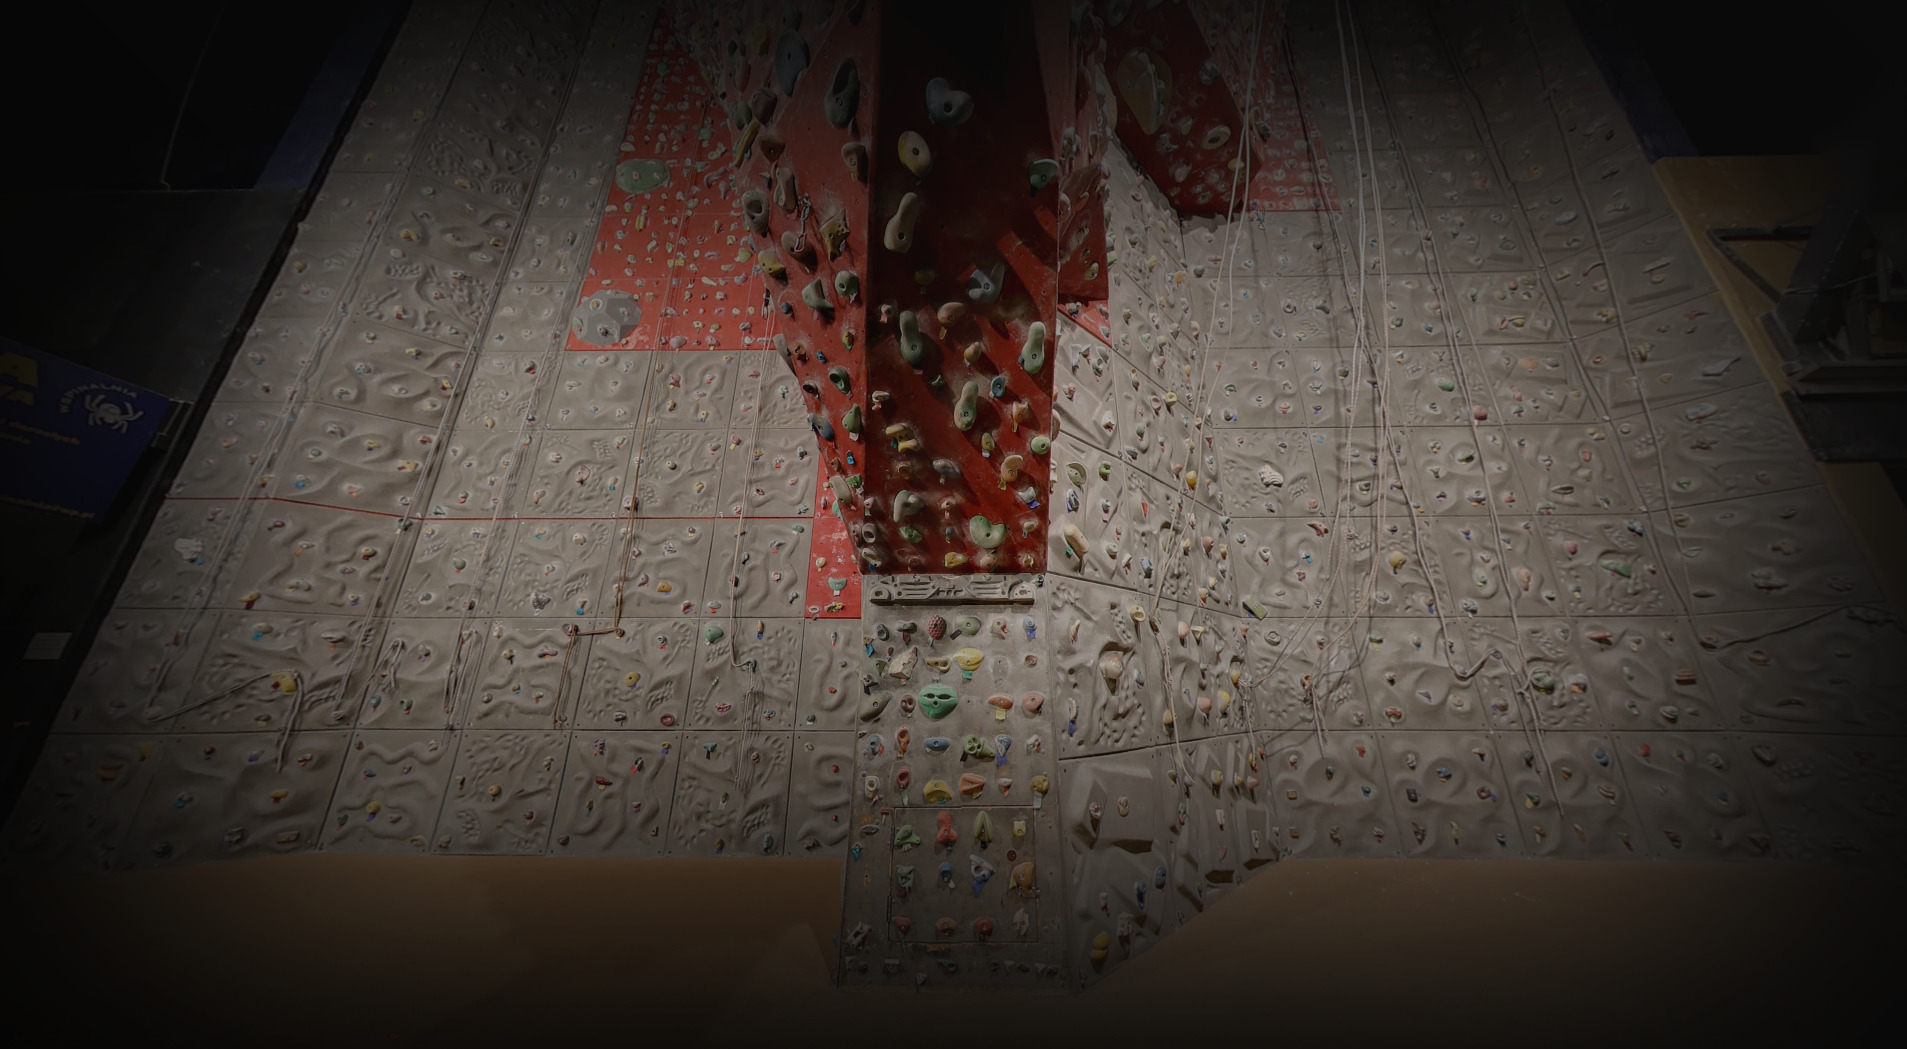
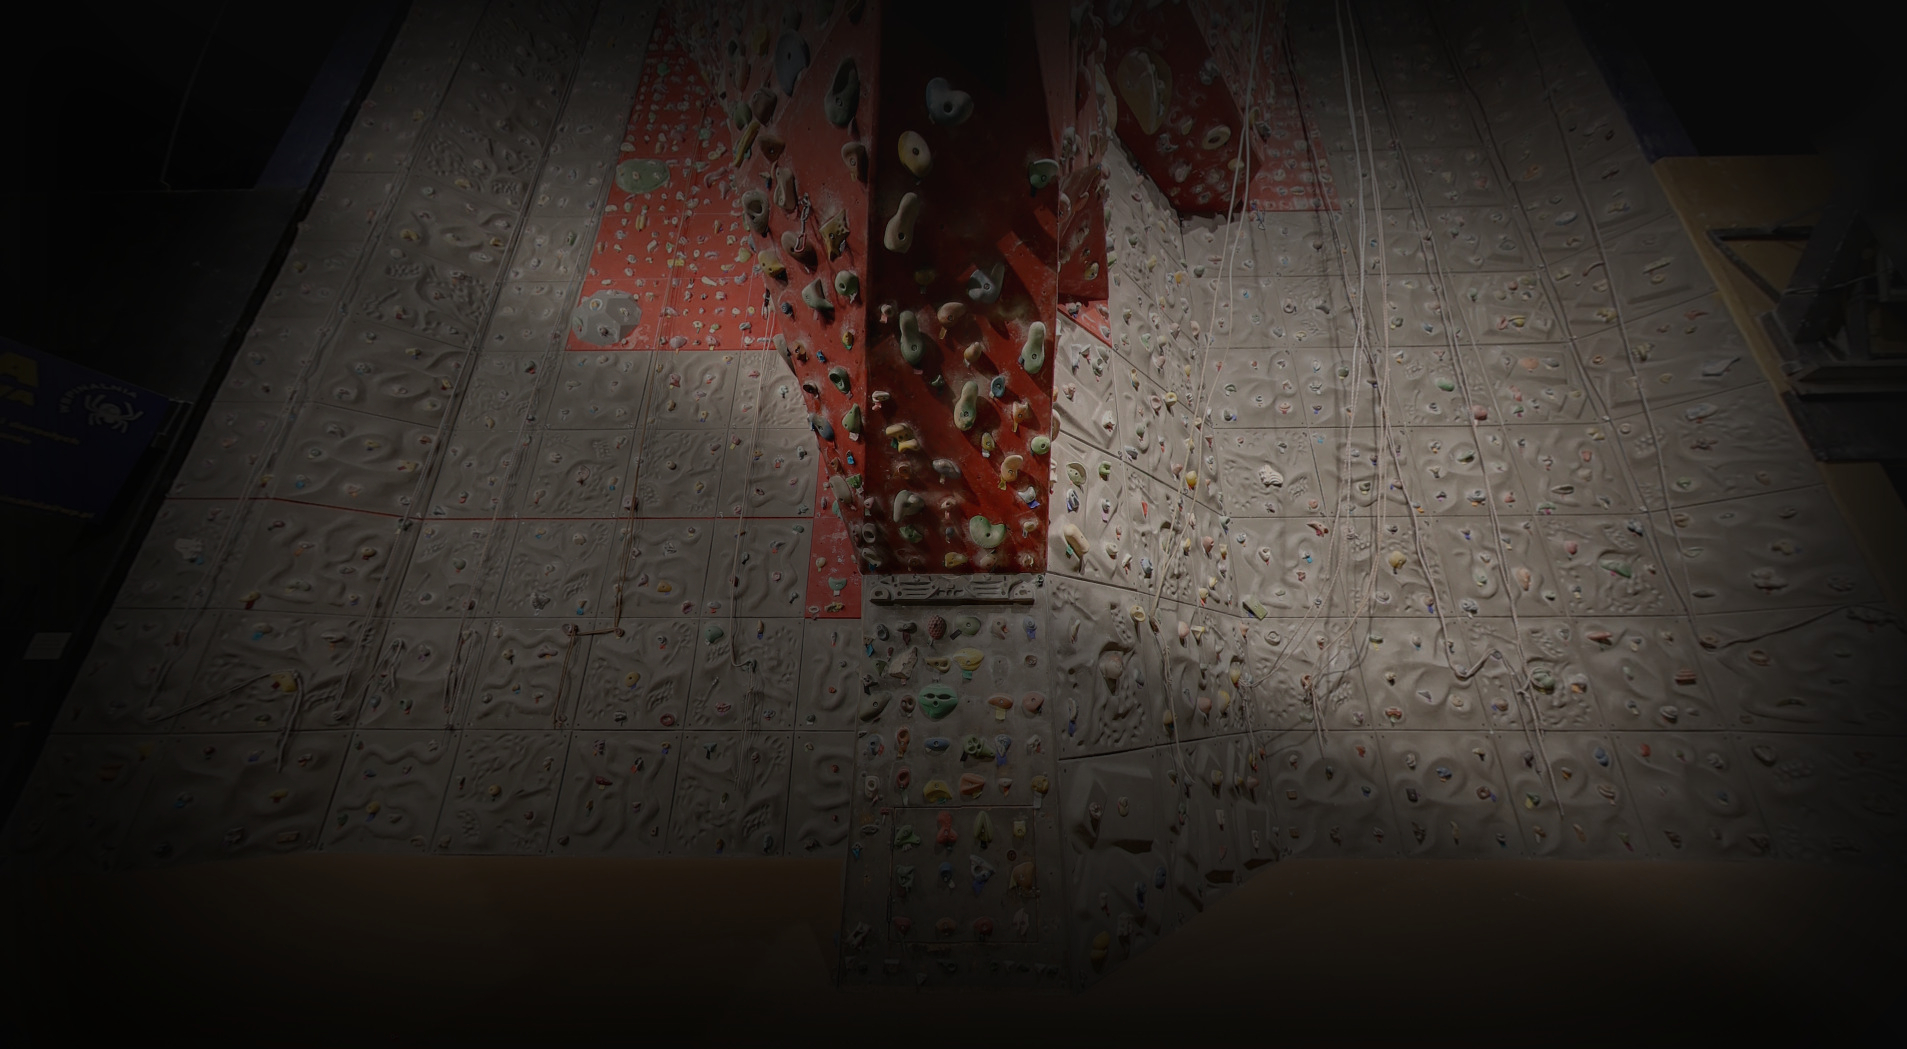
Subpage & resp

Changed region(s): [[0.0619, 0.2135, 0.8044, 0.8847]]

diff --git a/onas.html b/onas.html
@@ -13,7 +13,7 @@
     <script src="https://cdnjs.cloudflare.com/ajax/libs/popper.js/1.14.3/umd/popper.min.js" integrity="sha384-ZMP7rVo3mIykV+2+9J3UJ46jBk0WLaUAdn689aCwoqbBJiSnjAK/l8WvCWPIPm49" crossorigin="anonymous"></script>
   </head>
   <body>
-    <div id="bg1" class="d-flex flex-column">
+    <div id="bg1" class="d-flex flex-column" style="height:30%;">
       <div class="container">
         <div class="row py-4">
           <div class="col-xl-4 col-lg-4 col-md-5 col-sm-7 col-12 mx-auto mb-3 mb-xl-0">
@@ -29,10 +29,10 @@
           <div class="col-xl-8 col-md-12 col-sm-11 col-xs-12 mx-auto d-flex align-items-center">
             <ul class="nav nav-fill">
               <li class="nav-item">
-                <a class="nav-link active" href="#">Home</a>
+                <a class="nav-link" href="#">Home</a>
               </li>
               <li class="nav-item">
-                <a class="nav-link" href="#">O nas</a>
+                <a class="nav-link active" href="#">O nas</a>
               </li>
               <li class="nav-item">
                 <a class="nav-link" href="#">Cennik</a>
@@ -56,87 +56,22 @@
           </div>
         </div>
       </div>
-      <!--<div class="container flex-grow-1 d-flex align-items-center">
-        <div class="row">
-          <div class="col-12 pb-5">
-            <p class="s-20 c-white pb-4">CH Alfa</p>
-            <h2 class="c-white pb-5">Ściana<br>wspinaczkowa</h2>
-          </div>
-        </div>
-      </div>-->
     </div>
     <div class="container-fluid">
-      <div class="row">
-        <div class="col-xl-4 col-md-6 col-12 p-0 d-flex">
-          <div class="background" style="background-image: url('img/sciana.jpg');"></div>
-          <div class="card p-5">
-            <div class="card-body px-0 py-5">
-              <h5 class="card-title">Ścianka</h5>
-              <p class="card-text">220m&sup2; powierzchni, kilkadziesiąt dróg, 45&deg; przewieszenia - to właśnie Alfa!</p>
-              <a href="#" class="btn btn-primary">Więcej</a>
-            </div>
-          </div>
-        </div>
-        <div class="col-xl-4 col-md-6 col-12 p-0 d-flex">
-          <div class="background" style="background-image: url('img/jaskinia.jpg');"></div>
-          <div class="card p-5">
-            <div class="card-body px-0 py-5">
-              <h5 class="card-title">Jaskinia Trolla</h5>
-              <p class="card-text">Poddaj próbie swoją zręczność i gibkość - pokonaj Jaskinię Trolla i poczuj się jak prawdziwy grotołaz!</p>
-              <a href="#" class="btn btn-primary">Więcej</a>
-            </div>
-          </div>
-        </div>
-        <div class="col-xl-4 col-md-6 col-12 p-0 d-flex">
-          <div class="background" style="background-image: url('img/bald.jpg');"></div>
-          <div class="card p-5">
-            <div class="card-body px-0 py-5">
-              <h5 class="card-title">Bulderownia</h5>
-              <p class="card-text">Nasza klimatyczna bulderownia oferuje kilkanaście obwodów, o różnym stopniu trudności</p>
-              <a href="#" class="btn btn-primary">Więcej</a>
-            </div>
-          </div>
-        </div>
-        <div class="col-xl-4 col-md-6 col-12 p-0 d-flex">
-          <div class="background" style="background-image: url('img/sekcje.jpg');"></div>
-          <div class="card p-5">
-            <div class="card-body px-0 py-5">
-              <h5 class="card-title">Sekcje</h5>
-              <p class="card-text">Chcesz nauczyć się wspinania od podstaw, a może wspinasz się i chcesz poprawić swoje umiejętności?</p>
-              <a href="#" class="btn btn-primary">Więcej</a>
-            </div>
-          </div>
-        </div>
-        <div class="col-xl-4 col-md-6 col-12 p-0 d-flex">
-          <div class="background" style="background-image: url('img/urodziny.jpg');"></div>
-          <div class="card p-5">
-            <div class="card-body px-0 py-5">
-              <h5 class="card-title">Urodziny</h5>
-              <p class="card-text">Chcesz zorganizować swojemu dziecku niezapomniane urodziny na ściance? Sprawdź naszą ofertę!</p>
-              <a href="#" class="btn btn-primary">Więcej</a>
-            </div>
-          </div>
-        </div>
-        <div class="col-xl-4 col-md-6 col-12 p-0 d-flex">
-          <div class="background" style="background-image: url('img/kursy.jpg');"></div>
-          <div class="card p-5">
-            <div class="card-body px-0 py-5">
-              <h5 class="card-title">Kursy</h5>
-              <p class="card-text">Nasi instruktorzy prowadzą kursy wspinaczkowe, skałkowe oraz wysokościowe</p>
-              <a href="#" class="btn btn-primary">Więcej</a>
-            </div>
-          </div>
-        </div>
-      </div>
       <div class="row bg-white py-lg-5 pb-5">
-        <div class="col-lg-6 col-md-12 py-4 py-md-0">
-          <div class="vid mx-auto" style="padding:47.5% 0 0 0;position:relative;"><iframe src="https://player.vimeo.com/video/39726908?color=e8441d&byline=0" style="position:absolute;top:0;left:0;width:100%;height:100%;" frameborder="0" webkitallowfullscreen mozallowfullscreen allowfullscreen></iframe></div><script src="https://player.vimeo.com/api/player.js"></script>
+        <div class="col-12 text-center">
+          <h1 class="pt-5 pb-4 m-0">O nas</h1>
+          <p class="s-16 c-black">Nigdy nie byłeś na ściance? <a href="">Dowiedz się jak zacząć!</a></p>
         </div>
-        <div class="col-lg-6 col-md-12 d-flex align-items-center">
-          <div class="pr-xl-5 pr-lg-3 px-5">
-            <h1 class="mb-4 c-black">Wspinalnia Alfa</h1>
-            <p class="s-16 c-black">Nasza ścianka wspinaczkowa mierzy 12m wysokości i 220m&sup2; powierzchni. Ukształtowanie ściany umożliwia wspinanaczkę po płytach, filarach, w zacięciach, przez okap oraz w przewieszeniu. Wspinacze znajdą tu kilkadziesiąt dróg o zróżnicowanych trudnościach – od IV do VI.4+ w skali krakowskiej.</p>
-          </div>
+        <div class="col-xl-7 col-lg-9 col-md-10 col-12 mx-auto">
+          <img class="img-fluid mx-auto d-block py-5" src="img/onas.jpg" alt="O nas">
+        </div>
+        <div class="col-12"></div>
+        <div class="col-xl-5 col-lg-7 col-md-9 col-sm-9 col-11 mx-auto">
+          <p class="s-16 c-black pb-4">Nasza ścianka wspinaczkowa mierzy 12m wysokości i ma 220m&sup2; powierzchni. Ukształtowanie ściany umożliwia wspinanaczkę po płytach, filarach, w zacięciach, przez okap oraz w przewieszeniu. Wspinacze znajdą tu kilkadziesiąt dróg o zróżnicowanych trudnościach – od VI do VI.4+ w skali krakowskiej. Wszystkie drogi można pokonać na tzw. „wędkę” oraz z dolną asekuracją. Wyjątkiem jest centralna część największego przewieszenia, gdzie możliwa jest tylko wspinaczka „z dołem”.</p>
+          <p class="s-16 c-black pb-4">Do dyspozycji jest 12 „wędek” plus 4 linie do wspinania tylko z dolną asekuracją. Ściana zbudowana jest częściowo z paneli imitujących skałę, posiadających mikrorzeźbę i chropowatą fakturę, która pozwala na wykorzystanie jej w formie chwytów i stopni. Fragmenty przewieszone pokryte są sklejką. Na kilku najłatwiejszych trasach na górze zainstalowane są dzwonki pozwalające (szczególnie dzieciom) oznajmić dotarcie na szczyt. Drogi dedykowane dzieciom wyposażone są w wiele chwytów o atrakcyjnych kształtach (zwierzątka, zabawki, cyferki).</p>
+          <p class="s-16 c-black pb-4">Do dyspozycji wspinaczy udostępniamy nieodpłatnie liny do wspinaczki TR, uprzęże oraz przyrządy asekuracyjne i ekspresy. Z dolną asekuracją wspinać mogą się jedynie osoby posiadające odpowiednie umiejętności i dysponujące własną liną dynamiczną.</p>
+          <p class="s-16 c-black pb-4">Zapraszamy!</p>
         </div>
       </div>
     </div>

diff --git a/style.css b/style.css
@@ -21,6 +21,7 @@ html, body
   background-image: url('img/bg1.jpg');
   background-size: cover;
   background-attachment: fixed;
+  background-position: center center;
 }
 
 .background
@@ -54,12 +55,36 @@ h1
   text-transform: uppercase;
 }
 
+h2
+{
+  font-family: Oswald;
+  font-weight: 400;
+  font-size: 80px;
+  text-transform: uppercase;
+}
+
 p
 {
   font-family: Poppins;
   font-weight: 400;
   line-height: 1.5;
   margin-bottom: 0;
+}
+
+p a
+{
+  color: #e8441d !important;
+  cursor: pointer;
+}
+
+p a:hover
+{
+  text-decoration: underline !important;
+}
+
+.s-20
+{
+  font-size: 20px;
 }
 
 .s-16
